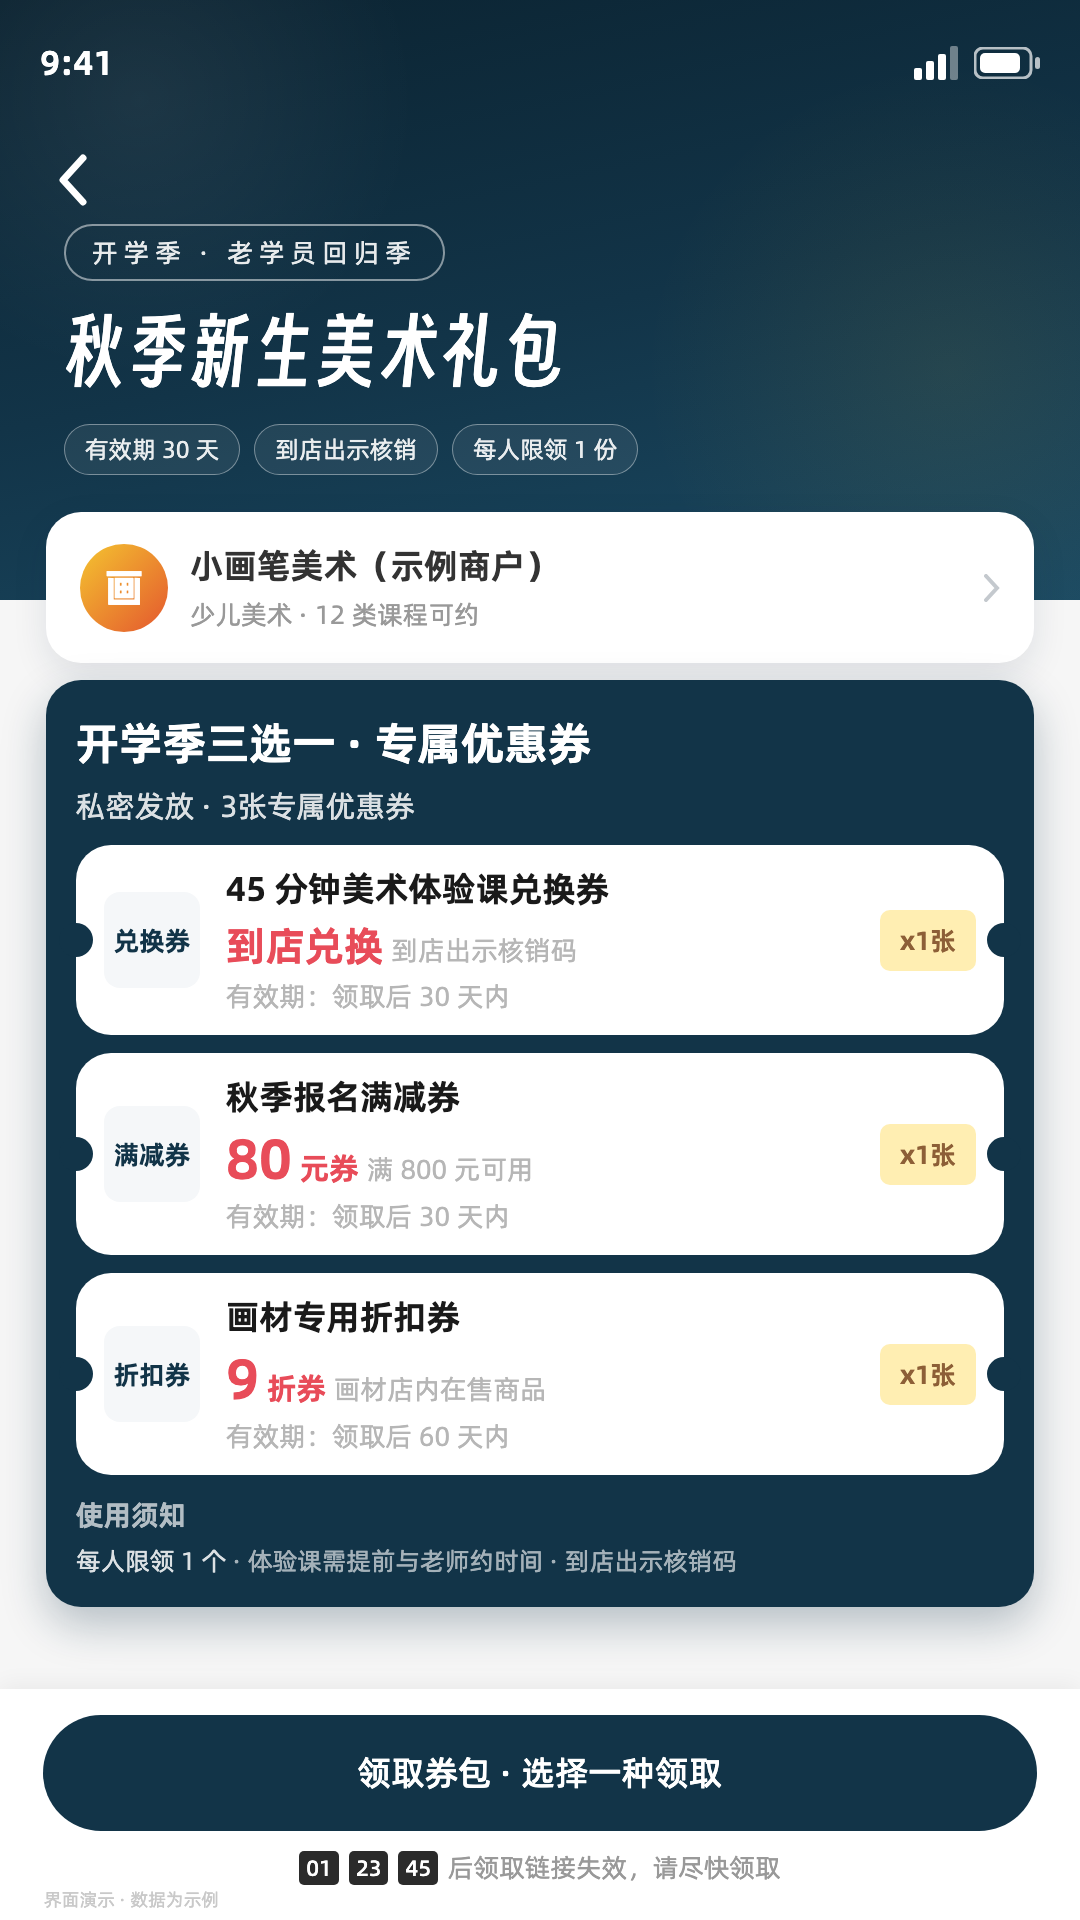
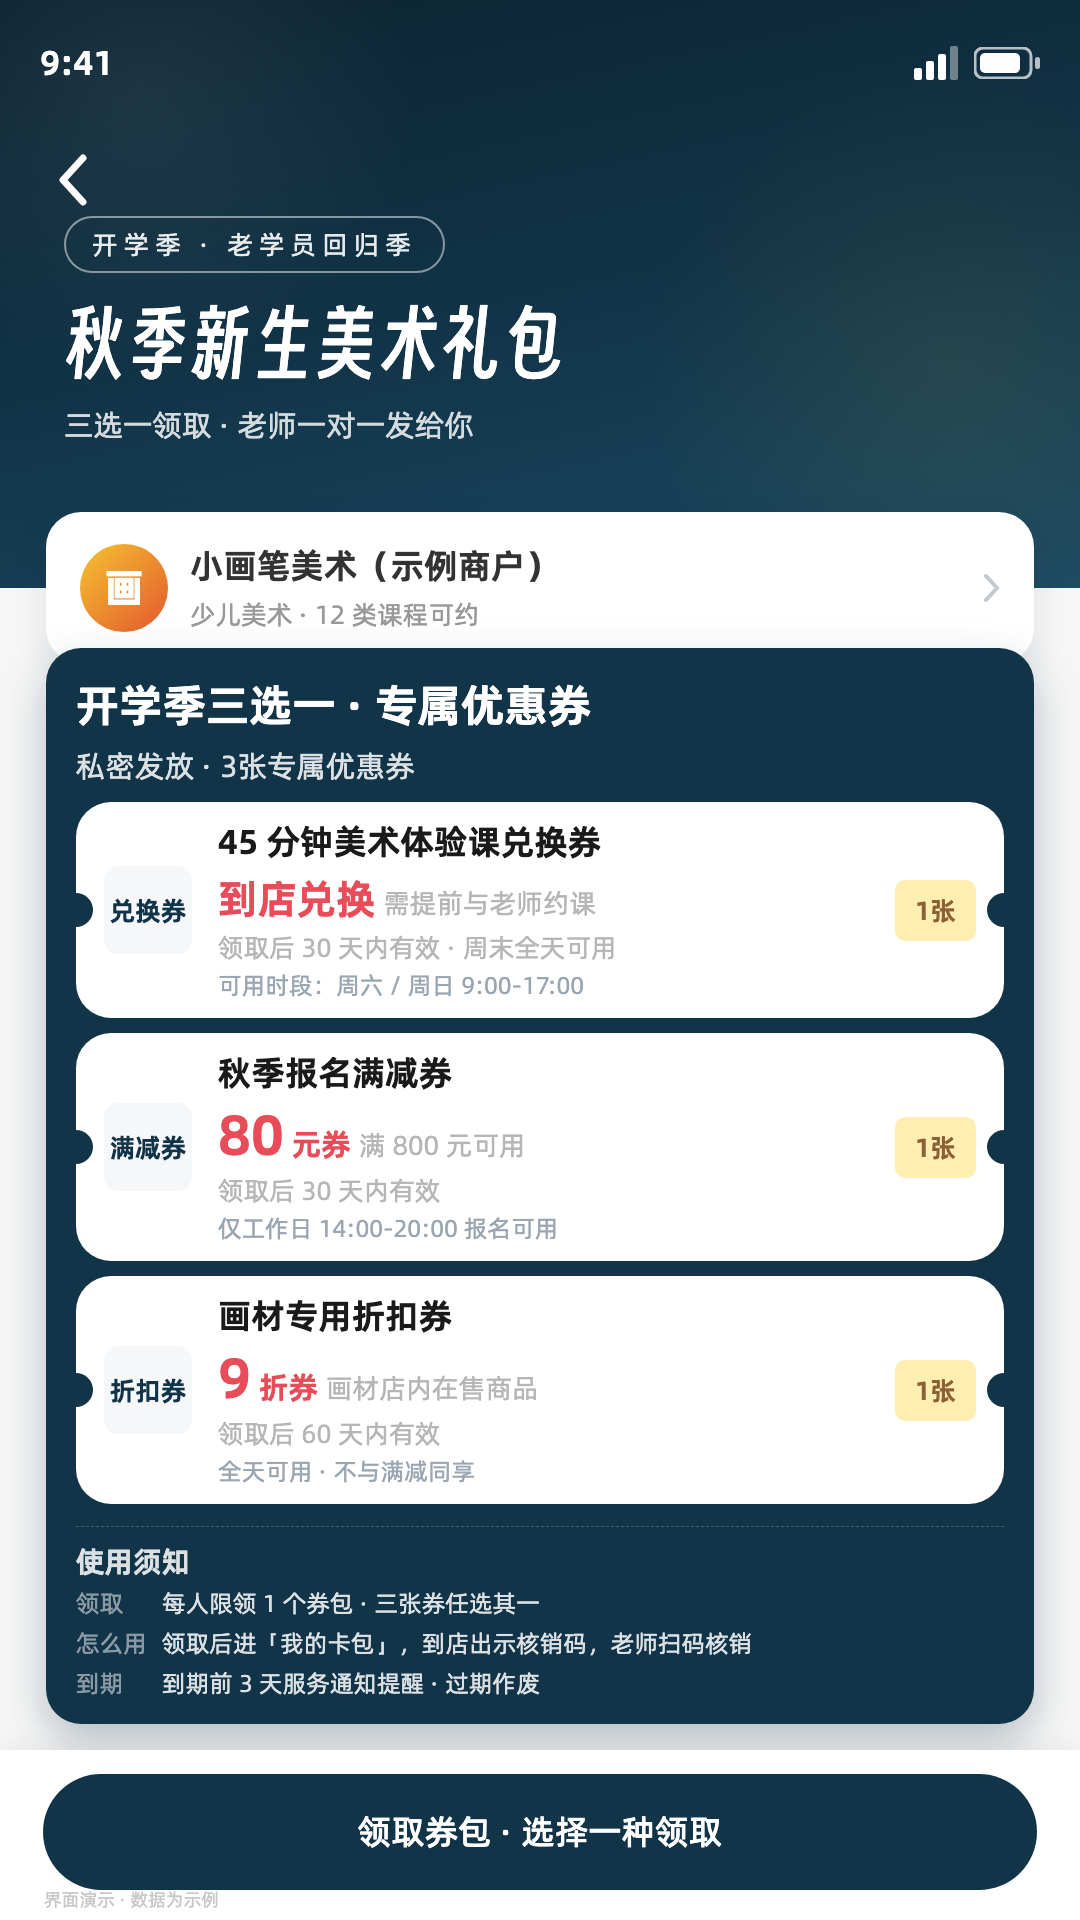
feat(bench): 标杆屏 rev2——按用户口径去杂件、须知做厚
- 删编造倒计时/与须知重复的封面胶囊（'只留重要内容'口径）
- 券卡补真实细节：可用时段（facts：星期+时间段≤2段）、周末约课、不叠加规则
- 须知结构化 3 条（限领三选一 / 入卡包+商家扫码核销方向真实 / 到期前3天提醒——全部 facts 依据）
- 版式收紧保证主卡完整入画不被 footer 裁切

diff --git a/video/src/bench/BundleOpenBench.tsx b/video/src/bench/BundleOpenBench.tsx
@@ -39,9 +39,9 @@ const NavBar: React.FC = () => (
 
 // 券行数据（真实形态示例值）
 const COUPONS = [
-  { thumb: '兑换券', name: '45 分钟美术体验课兑换券', amount: null as string | null, unit: '', threshold: '到店出示核销码', valid: '有效期：领取后 30 天内', count: 'x1张' },
-  { thumb: '满减券', name: '秋季报名满减券', amount: '80', unit: '元券', threshold: '满 800 元可用', valid: '有效期：领取后 30 天内', count: 'x1张' },
-  { thumb: '折扣券', name: '画材专用折扣券', amount: '9', unit: '折券', threshold: '画材店内在售商品', valid: '有效期：领取后 60 天内', count: 'x1张' },
+  { thumb: '兑换券', name: '45 分钟美术体验课兑换券', amount: null as string | null, unit: '', threshold: '需提前与老师约课', valid: '领取后 30 天内有效 · 周末全天可用', hours: '可用时段：周六 / 周日 9:00-17:00', count: '1张' },
+  { thumb: '满减券', name: '秋季报名满减券', amount: '80', unit: '元券', threshold: '满 800 元可用', valid: '领取后 30 天内有效', hours: '仅工作日 14:00-20:00 报名可用', count: '1张' },
+  { thumb: '折扣券', name: '画材专用折扣券', amount: '9', unit: '折券', threshold: '画材店内在售商品', valid: '领取后 60 天内有效', hours: '全天可用 · 不与满减同享', count: '1张' },
 ];
 
 export const BundleOpenBench: React.FC = () => {
@@ -56,21 +56,17 @@ export const BundleOpenBench: React.FC = () => {
     <AbsoluteFill style={{ background: '#F6F6F6', fontFamily: FONT_BODY }}>
       {/* ── 封面区（真值 swiperHeight≈864px，展示滚动后构图：压到 620px）── */}
       <div style={{
-        position: 'absolute', left: 0, top: 0, right: 0, height: 600,
+        position: 'absolute', left: 0, top: 0, right: 0, height: 588,
         background: `linear-gradient(168deg, ${THEME_DARK} 0%, ${THEME} 52%, #1B4A63 100%)`, overflow: 'hidden',
       }}>
         {/* 光晕两块：呼吸微动 */}
         <div style={{ position: 'absolute', left: -140, top: -180, width: 560, height: 560, borderRadius: '50%', background: 'radial-gradient(circle, rgba(255,255,255,0.10) 0%, transparent 70%)', opacity: 0.6 + glow * 0.4 }} />
         <div style={{ position: 'absolute', right: -180, top: 60, width: 620, height: 620, borderRadius: '50%', background: 'radial-gradient(circle, rgba(244,196,48,0.14) 0%, transparent 70%)', opacity: 0.5 + glow * 0.3 }} />
         {/* 海报标题区 */}
-        <div style={{ position: 'absolute', left: 64, top: 224, color: '#fff' }}>
+        <div style={{ position: 'absolute', left: 64, top: 216, color: '#fff' }}>
           <div style={{ display: 'inline-block', fontSize: 26, letterSpacing: 6, border: '2px solid rgba(255,255,255,0.55)', borderRadius: 999, padding: '8px 26px', opacity: 0.9 }}>开学季 · 老学员回归季</div>
           <div style={{ marginTop: 26, fontFamily: FONT_TITLE, fontSize: 76, fontWeight: 900, letterSpacing: 2 }}>秋季新生美术礼包</div>
-          <div style={{ display: 'flex', gap: 14, marginTop: 26 }}>
-            {['有效期 30 天', '到店出示核销', '每人限领 1 份'].map((t) => (
-              <span key={t} style={{ fontSize: 24, color: 'rgba(255,255,255,0.9)', border: '1.5px solid rgba(255,255,255,0.4)', borderRadius: 999, padding: '8px 20px', background: 'rgba(255,255,255,0.07)' }}>{t}</span>
-            ))}
-          </div>
+          <div style={{ marginTop: 14, fontSize: 30, color: 'rgba(255,255,255,0.82)' }}>三选一领取 · 老师一对一发给你</div>
         </div>
         <StatusBar />
         <NavBar />
@@ -93,18 +89,18 @@ export const BundleOpenBench: React.FC = () => {
 
       {/* ── 券包主卡（真值 .bundle：主题底 32rpx 内距 24rpx 圆角，白字标题）── */}
       <div style={{
-        position: 'absolute', left: 32 * PX, right: 32 * PX, top: 680,
-        background: THEME, borderRadius: 35, padding: '34px 30px 16px',
+        position: 'absolute', left: 32 * PX, right: 32 * PX, top: 648,
+        background: THEME, borderRadius: 35, padding: '28px 30px 14px',
         boxShadow: '0 18px 44px rgba(18,52,72,0.28)',
       }}>
         <div style={{ fontSize: 44, fontWeight: 700, color: '#fff', lineHeight: 1.35 }}>开学季三选一 · 专属优惠券</div>
-        <div style={{ marginTop: 12, fontSize: 30, color: 'rgba(255,255,255,0.85)' }}>私密发放 · 3张专属优惠券</div>
+        <div style={{ marginTop: 10, fontSize: 30, color: 'rgba(255,255,255,0.85)' }}>私密发放 · 3张专属优惠券</div>
 
         {COUPONS.map((c, i) => {
           const p = [card1, card2, card3][i];
           return (
             <div key={c.name} style={{
-              position: 'relative', marginTop: 18, background: '#fff', borderRadius: 35, padding: '20px 28px',
+              position: 'relative', marginTop: 15, background: '#fff', borderRadius: 35, padding: '16px 28px',
               display: 'flex', alignItems: 'center', gap: 26,
               opacity: p, transform: `translateY(${(1 - p) * 34}px)`,
             }}>
@@ -112,7 +108,7 @@ export const BundleOpenBench: React.FC = () => {
               <div style={{ position: 'absolute', left: -17, top: '50%', marginTop: -17, width: 34, height: 34, borderRadius: '50%', background: THEME }} />
               <div style={{ position: 'absolute', right: -17, top: '50%', marginTop: -17, width: 34, height: 34, borderRadius: '50%', background: THEME }} />
               {/* 缩略块（无封面图时 = couponTypeLabel 占位真值 120rpx 圆角12） */}
-              <div style={{ width: 96, height: 96, borderRadius: 16, background: '#F5F7F9', flexShrink: 0, display: 'flex', alignItems: 'center', justifyContent: 'center' }}>
+              <div style={{ width: 88, height: 88, borderRadius: 14, background: '#F5F7F9', flexShrink: 0, display: 'flex', alignItems: 'center', justifyContent: 'center' }}>
                 <span style={{ fontSize: 26, color: THEME, fontWeight: 600 }}>{c.thumb}</span>
               </div>
               <div style={{ flex: 1, minWidth: 0 }}>
@@ -128,7 +124,8 @@ export const BundleOpenBench: React.FC = () => {
                   )}
                   <span style={{ fontSize: 27, color: '#B6B6B6' }}>{c.threshold}</span>
                 </div>
-                <div style={{ marginTop: 8, fontSize: 27, color: '#B6B6B6' }}>{c.valid}</div>
+                <div style={{ marginTop: 7, fontSize: 26, color: '#B6B6B6' }}>{c.valid}</div>
+                <div style={{ marginTop: 3, fontSize: 24, color: '#9AA6B2' }}>{c.hours}</div>
               </div>
               {/* button-gold 真值：#ffeeb2 底 #8d5f37 字 24rpx 600 */}
               <div style={{ flexShrink: 0, background: GOLD_BG, color: GOLD_TX, fontSize: 26, fontWeight: 600, borderRadius: 10, padding: '12px 20px' }}>{c.count}</div>
@@ -136,19 +133,26 @@ export const BundleOpenBench: React.FC = () => {
           );
         })}
 
-        {/* 使用须知（真值 .bundle-content 压缩为两行，完整入画） */}
-        <div style={{ marginTop: 20, paddingBottom: 10 }}>
-          <div style={{ fontSize: 28, fontWeight: 600, color: 'rgba(255,255,255,0.68)' }}>使用须知</div>
-          <div style={{ marginTop: 8, fontSize: 25, lineHeight: 1.5, color: 'rgba(255,255,255,0.62)' }}>
-            <span style={{ color: 'rgba(255,255,255,0.85)' }}>每人限领 1 个</span> · 体验课需提前与老师约时间 · 到店出示核销码
-          </div>
+        {/* 使用须知：结构化 4 条，每条有 facts.json 能力依据 */}
+        <div style={{ marginTop: 22, paddingBottom: 8, borderTop: '1.5px dashed rgba(255,255,255,0.22)', paddingTop: 14 }}>
+          <div style={{ fontSize: 29, fontWeight: 600, color: 'rgba(255,255,255,0.85)' }}>使用须知</div>
+          {[
+            ['领取', '每人限领 1 个券包 · 三张券任选其一'],
+            ['怎么用', '领取后进「我的卡包」，到店出示核销码，老师扫码核销'],
+            ['到期', '到期前 3 天服务通知提醒 · 过期作废'],
+          ].map(([k, v]) => (
+            <div key={k} style={{ display: 'flex', gap: 14, marginTop: 5, fontSize: 24, lineHeight: 1.45 }}>
+              <span style={{ color: 'rgba(255,255,255,0.5)', width: 72, flexShrink: 0, whiteSpace: 'nowrap' }}>{k}</span>
+              <span style={{ color: 'rgba(255,255,255,0.85)' }}>{v}</span>
+            </div>
+          ))}
         </div>
       </div>
 
       {/* ── 底部吸附操作栏（真值 .bundle-footer：白底上阴影 + 主题色大按钮 + 倒计时备注）── */}
       <div style={{
         position: 'absolute', left: 0, right: 0, bottom: 0, background: '#fff',
-        boxShadow: '0 -3px 23px rgba(0,0,0,0.06)', padding: '26px 43px 34px',
+        boxShadow: '0 -3px 23px rgba(0,0,0,0.06)', padding: '24px 43px 30px',
         opacity: btn, transform: `translateY(${(1 - btn) * 30}px)`,
       }}>
         <div style={{
@@ -162,13 +166,6 @@ export const BundleOpenBench: React.FC = () => {
             background: 'linear-gradient(100deg, transparent, rgba(255,255,255,0.28), transparent)',
             left: interpolate(f % 90, [0, 90], [-200, 1080]),
           }} />
-        </div>
-        <div style={{ marginTop: 18, display: 'flex', alignItems: 'center', justifyContent: 'center', gap: 10, fontSize: 26, color: '#999' }}>
-          {/* 倒计时方块（t-count-down square 风格） */}
-          {['01', '23', '45'].map((n) => (
-            <span key={n} style={{ background: '#2B2B2B', color: '#fff', borderRadius: 5, padding: '2px 7px', fontSize: 22, fontWeight: 500 }}>{n}</span>
-          ))}
-          <span>后领取链接失效，请尽快领取</span>
         </div>
         <div style={{ position: 'absolute', left: 44, bottom: 8, fontSize: 18, color: '#C9C9C9' }}>界面演示 · 数据为示例</div>
       </div>
